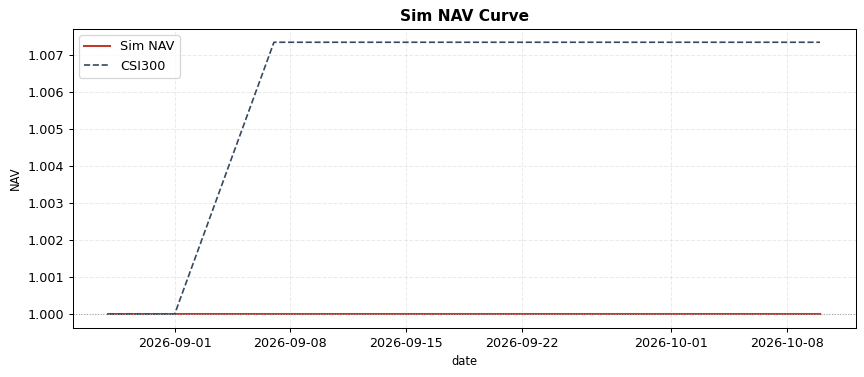
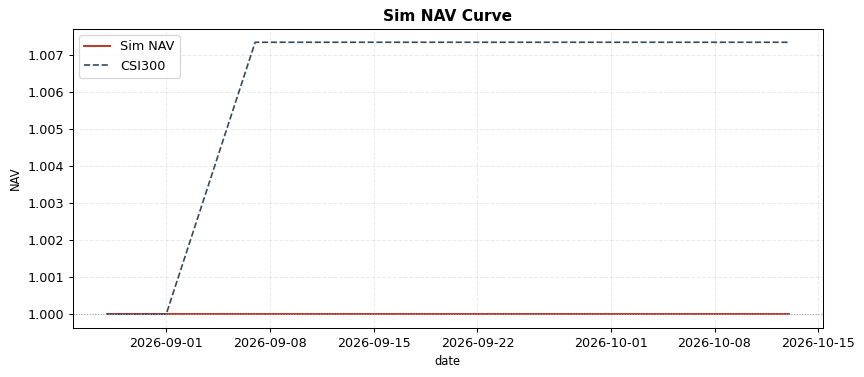
chore(docs): update V8.1 strategy dashboard [skip ci]

diff --git a/docs/index.html b/docs/index.html
@@ -38,7 +38,7 @@
 <div class="wrap">
   <header>
     <h1>V8.1 模拟盘 Dashboard</h1>
-    <div class="meta">生成时间 2026-10-10 05:57:14 · 数据截至 2026-10-10</div>
+    <div class="meta">生成时间 2026-10-13 08:09:46 · 数据截至 2026-10-13</div>
   </header>
 
   <div class="cards">

diff --git a/docs/holdings.html b/docs/holdings.html
@@ -28,7 +28,7 @@
 <div class="wrap">
   <header>
     <h1>持仓走势图（0 只）</h1>
-    <div class="meta">数据截至 2026-10-10</div>
+    <div class="meta">数据截至 2026-10-13</div>
   </header>
   <div class="links"><a href="index.html">← 返回总览</a></div>
   <div class="grid">
